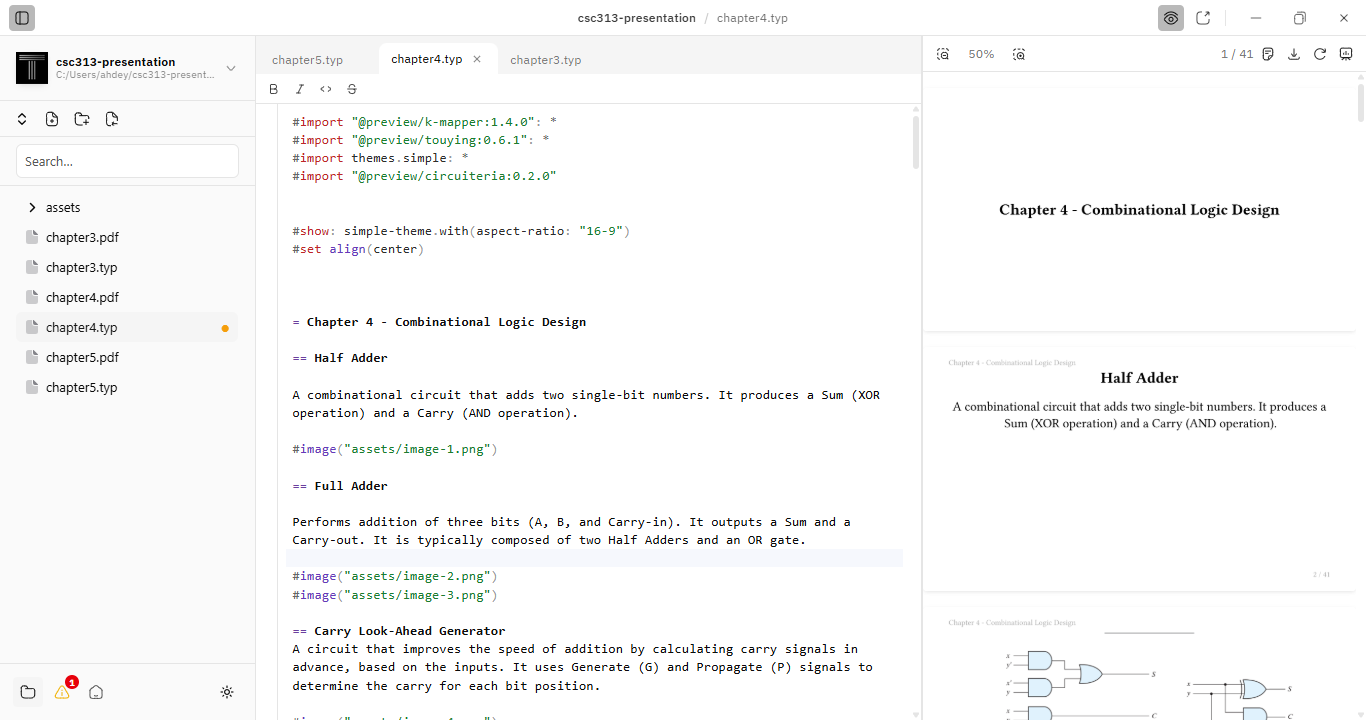
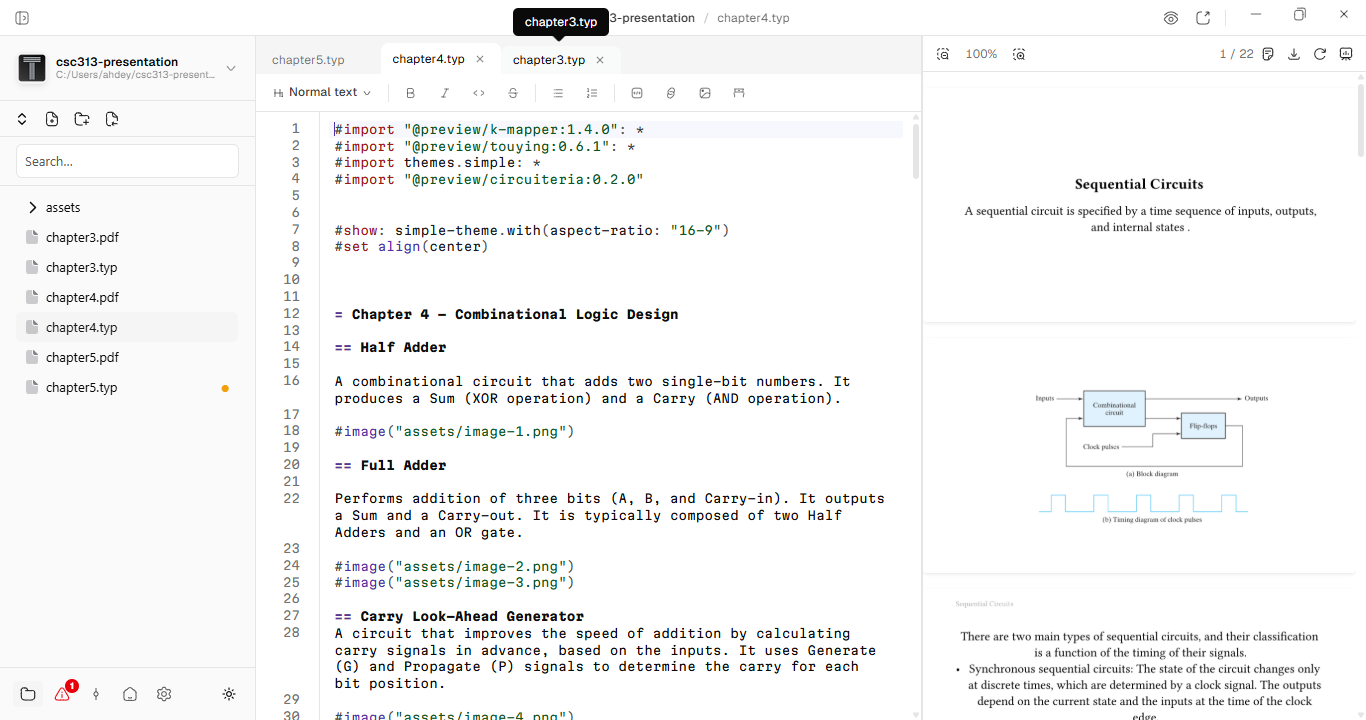
feat(web): updated the image in the hero section

diff --git a/apps/typwriter-web/src/routes/+page.svelte b/apps/typwriter-web/src/routes/+page.svelte
@@ -22,10 +22,6 @@
 
 	import showcaseDark from '$lib/assets/showcase_dark.png';
 	import showcaseLight from '$lib/assets/showcase_light.png';
-	import mobileShowcaseDark from '$lib/assets/mobile_showcase_dark.png';
-	import mobileShowcaseLight from '$lib/assets/mobile_showcase_light.png';
-	import mobileEditorDark from '$lib/assets/mobile_showcase_editor_dark.png';
-	import mobileEditorLight from '$lib/assets/mobile_showcase_editor_light.png';
 
 	let { data }: { data: PageData } = $props();
 
@@ -59,8 +55,6 @@
 	);
 
 	let desktopTheme = $state<'dark' | 'light' | null>(null);
-	let workspaceTheme = $state<'dark' | 'light' | null>(null);
-	let editorTheme = $state<'dark' | 'light' | null>(null);
 
 	function formatSize(bytes: number): string {
 		return (bytes / (1024 * 1024)).toFixed(1) + ' MB';
@@ -135,7 +129,7 @@
 	<h1 class="mb-4 text-4xl font-bold tracking-tighter sm:text-5xl lg:text-6xl">Typwriter</h1>
 
 	<p class="mx-auto mb-10 max-w-xl text-base text-muted-foreground sm:text-lg">
-		A Typst editor for Windows, macOS, Linux, and Android. Write with syntax highlighting and
+		A Typst editor for Windows, macOS, Linux, and Android*. Write with syntax highlighting and
 		autocomplete, watch your document render as you type, and export to PDF, SVG, or PNG.
 	</p>
 
@@ -174,62 +168,6 @@
 						loading="lazy"
 					/>
 				</button>
-			</div>
-		</div>
-
-		<div class="android-showcase">
-			<div class="phone-stack phone-stack--workspace">
-				<div class="phone-stack__frames" data-active-theme={workspaceTheme ?? undefined}>
-					<button
-						type="button"
-						class="phone-frame phone-frame--dark"
-						aria-label="Show the Android workspace dark mode screenshot"
-						onclick={() => (workspaceTheme = 'dark')}
-					>
-						<img
-							src={mobileShowcaseDark}
-							alt="Typwriter mobile workspace in dark mode"
-							loading="lazy"
-						/>
-					</button>
-					<button
-						type="button"
-						class="phone-frame phone-frame--light"
-						aria-label="Show the Android workspace light mode screenshot"
-						onclick={() => (workspaceTheme = 'light')}
-					>
-						<img
-							src={mobileShowcaseLight}
-							alt="Typwriter mobile workspace in light mode"
-							loading="lazy"
-						/>
-					</button>
-				</div>
-			</div>
-
-			<div class="phone-stack phone-stack--editor">
-				<div class="phone-stack__frames" data-active-theme={editorTheme ?? undefined}>
-					<button
-						type="button"
-						class="phone-frame phone-frame--dark"
-						aria-label="Show the Android editor dark mode screenshot"
-						onclick={() => (editorTheme = 'dark')}
-					>
-						<img src={mobileEditorDark} alt="Typwriter mobile editor in dark mode" loading="lazy" />
-					</button>
-					<button
-						type="button"
-						class="phone-frame phone-frame--light"
-						aria-label="Show the Android editor light mode screenshot"
-						onclick={() => (editorTheme = 'light')}
-					>
-						<img
-							src={mobileEditorLight}
-							alt="Typwriter mobile editor in light mode"
-							loading="lazy"
-						/>
-					</button>
-				</div>
 			</div>
 		</div>
 	</div>
@@ -423,11 +361,10 @@
 <style>
 	.showcase-row {
 		display: grid;
-		grid-template-columns: minmax(0, 1fr) minmax(18rem, 27rem);
-		align-items: center;
-		gap: clamp(2.5rem, 5vw, 5rem);
+		grid-template-columns: minmax(0, 1fr);
+		justify-items: center;
 		margin-top: 5rem;
-		padding-inline: clamp(1.5rem, 4vw, 4rem) clamp(0.5rem, 2vw, 2rem);
+		padding-inline: clamp(1.5rem, 4vw, 4rem);
 	}
 
 	.theme-stack__frames {
@@ -435,6 +372,7 @@
 		aspect-ratio: 16 / 10;
 		isolation: isolate;
 		width: 100%;
+		max-width: 56rem;
 		margin-inline: auto;
 	}
 
@@ -458,8 +396,7 @@
 			border-color 200ms ease;
 	}
 
-	.theme-frame:focus-visible,
-	.phone-frame:focus-visible {
+	.theme-frame:focus-visible {
 		outline: 2px solid var(--ring);
 		outline-offset: 0.35rem;
 	}
@@ -500,85 +437,6 @@
 		opacity: 0.86;
 	}
 
-	.android-showcase {
-		display: grid;
-		grid-template-columns: repeat(2, minmax(8rem, 11.25rem));
-		justify-content: center;
-		column-gap: clamp(0.75rem, 2.25vw, 1.75rem);
-		row-gap: 4rem;
-		padding-inline: 0;
-	}
-
-	.phone-stack {
-		width: 100%;
-		max-width: 11.25rem;
-	}
-
-	.phone-stack__frames {
-		position: relative;
-		aspect-ratio: 9 / 19.5;
-		isolation: isolate;
-	}
-
-	.phone-frame {
-		position: absolute;
-		inset: 0;
-		margin: 0;
-		overflow: hidden;
-		border: 1px solid var(--border);
-		border-radius: 0.75rem;
-		background: var(--card);
-		padding: 0;
-		color: inherit;
-		box-shadow: 0 14px 30px -18px oklch(0 0 0 / 0.3);
-		cursor: pointer;
-		transition:
-			transform 600ms cubic-bezier(0.16, 1, 0.3, 1),
-			box-shadow 600ms cubic-bezier(0.16, 1, 0.3, 1),
-			opacity 400ms ease;
-	}
-
-	.phone-frame img {
-		display: block;
-		width: 100%;
-		height: 100%;
-		object-fit: cover;
-		object-position: top center;
-	}
-
-	.phone-frame--light {
-		z-index: 1;
-		transform: translate(-18%, 8%) scale(0.82) rotate(-3deg);
-		opacity: 0.94;
-	}
-	.phone-frame--dark {
-		z-index: 2;
-		transform: translate(0, 0) scale(1) rotate(0deg);
-	}
-
-	.phone-stack--editor .phone-frame--light {
-		transform: translate(18%, -7%) scale(0.82) rotate(3deg);
-	}
-
-	.phone-stack__frames[data-active-theme='light'] .phone-frame--light,
-	.phone-stack__frames[data-active-theme='dark'] .phone-frame--dark {
-		z-index: 4;
-		transform: translate(0, 0) scale(1.03) rotate(0deg);
-		box-shadow: 0 36px 54px -22px oklch(0 0 0 / 0.4);
-		opacity: 1;
-	}
-
-	.phone-stack__frames[data-active-theme='light'] .phone-frame--dark {
-		z-index: 1;
-		transform: translate(16%, -6%) scale(0.82) rotate(3deg);
-		opacity: 0.82;
-	}
-
-	.phone-stack__frames[data-active-theme='dark'] .phone-frame--light {
-		z-index: 1;
-		opacity: 0.88;
-	}
-
 	@media (prefers-color-scheme: light) {
 		.theme-stack__frames:not([data-active-theme]) .theme-frame--light {
 			z-index: 2;
@@ -594,25 +452,12 @@
 
 	@media (max-width: 640px) {
 		.showcase-row {
-			grid-template-columns: 1fr;
 			margin-top: 4rem;
-		}
-
-		.android-showcase {
-			grid-template-columns: minmax(10rem, 13rem);
-			row-gap: 3.25rem;
-		}
-	}
-
-	@media (min-width: 641px) and (max-width: 1024px) {
-		.showcase-row {
-			grid-template-columns: 1fr;
 		}
 	}
 
 	@media (prefers-reduced-motion: reduce) {
-		.theme-frame,
-		.phone-frame {
+		.theme-frame {
 			transition: none;
 		}
 	}